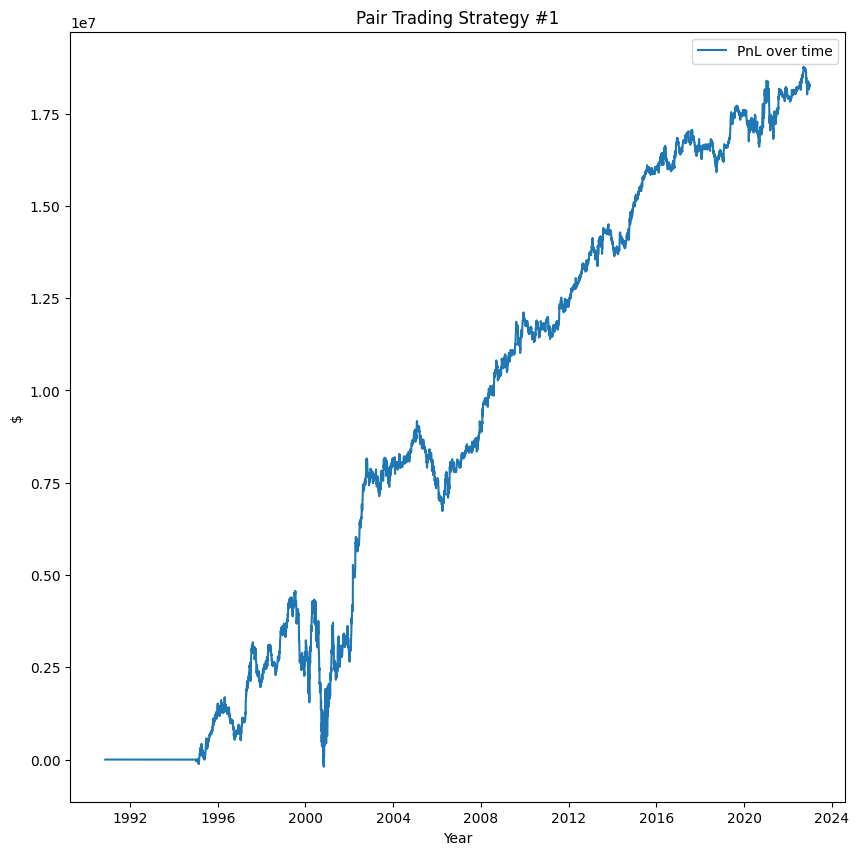
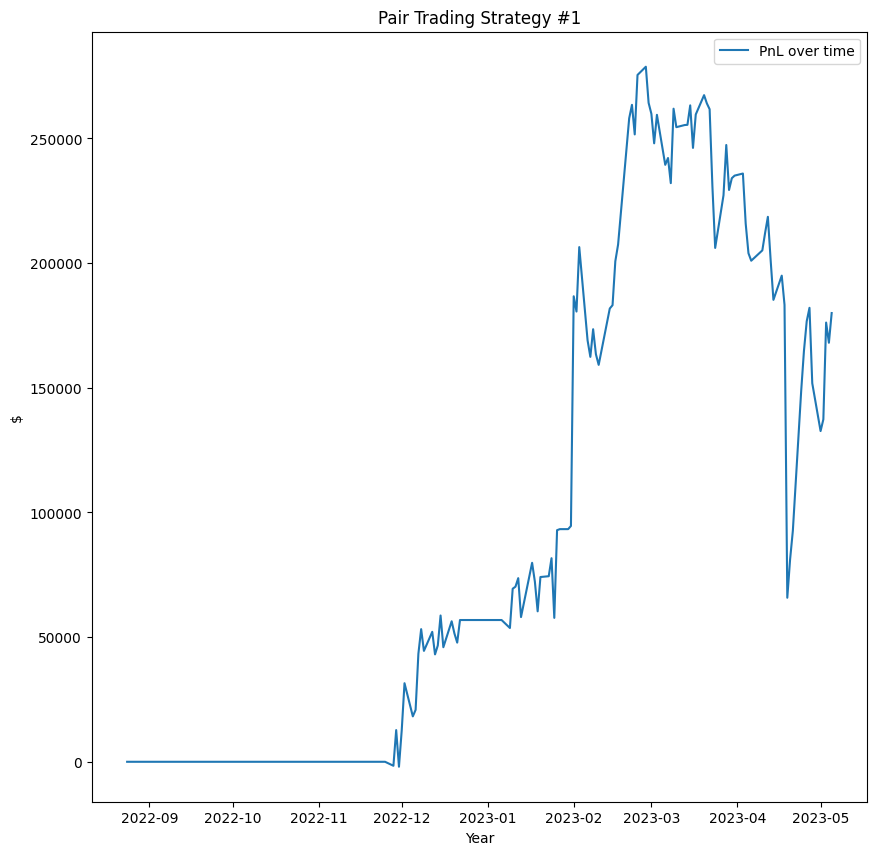
update strat1

diff --git a/content/featured/Strategy 1/index.md b/content/featured/Strategy 1/index.md
@@ -9,9 +9,11 @@ tech:
   - yfinance
 ---
 
-Fundamental-backed, mean-reversion pair trading strategy on 6 stock pairs, with the ticket size for each triggered trade (long/short) valued at $1m. From 1995-2022:
+Fundamental-backed, mean-reversion pair trading strategy on 2 stock pairs, with the ticket size for each triggered trade (long/short) valued at $1m. From Dec'22 to present:
 
-- Maximum drawdown is -$194,261.49
-- Maximum recorded profit is $18,768,260.42
+- Maximum recorded loss (including trading costs) = -$1,979.74.
+- Maximum recorded profit = $278,753.39.
+- Strategy mean daily return (including non-trading days) = $1,781.87.
+- 2023 YTD profit = $123,115.65.
 
-Last updated: Jan'23
+Last updated: May'23
